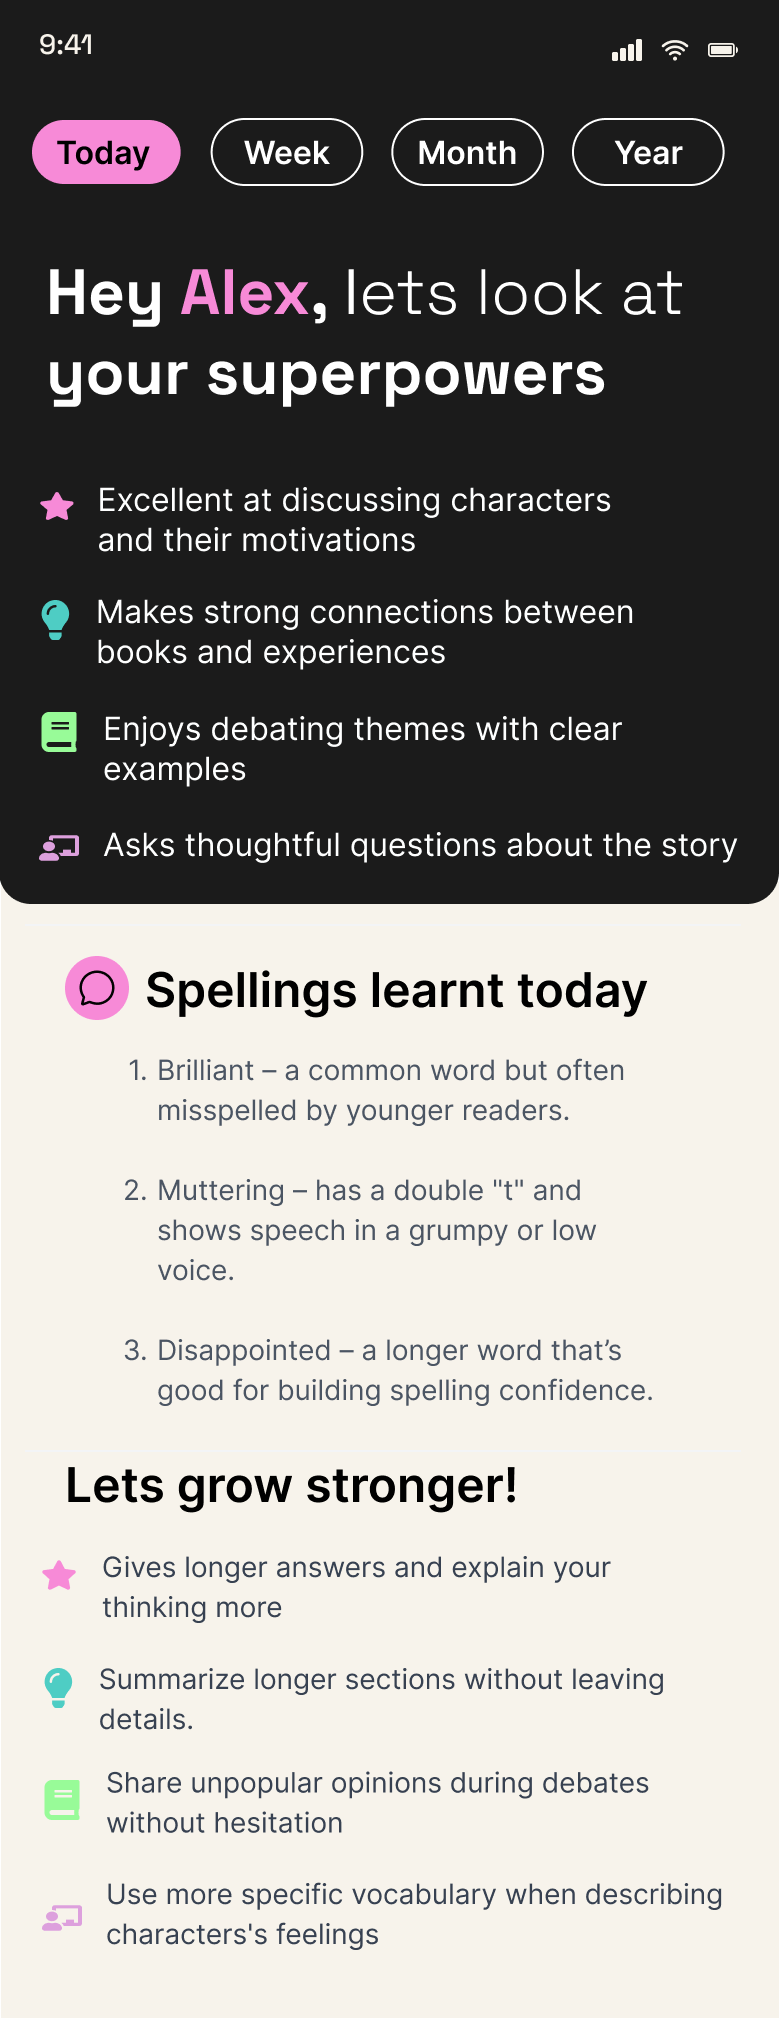
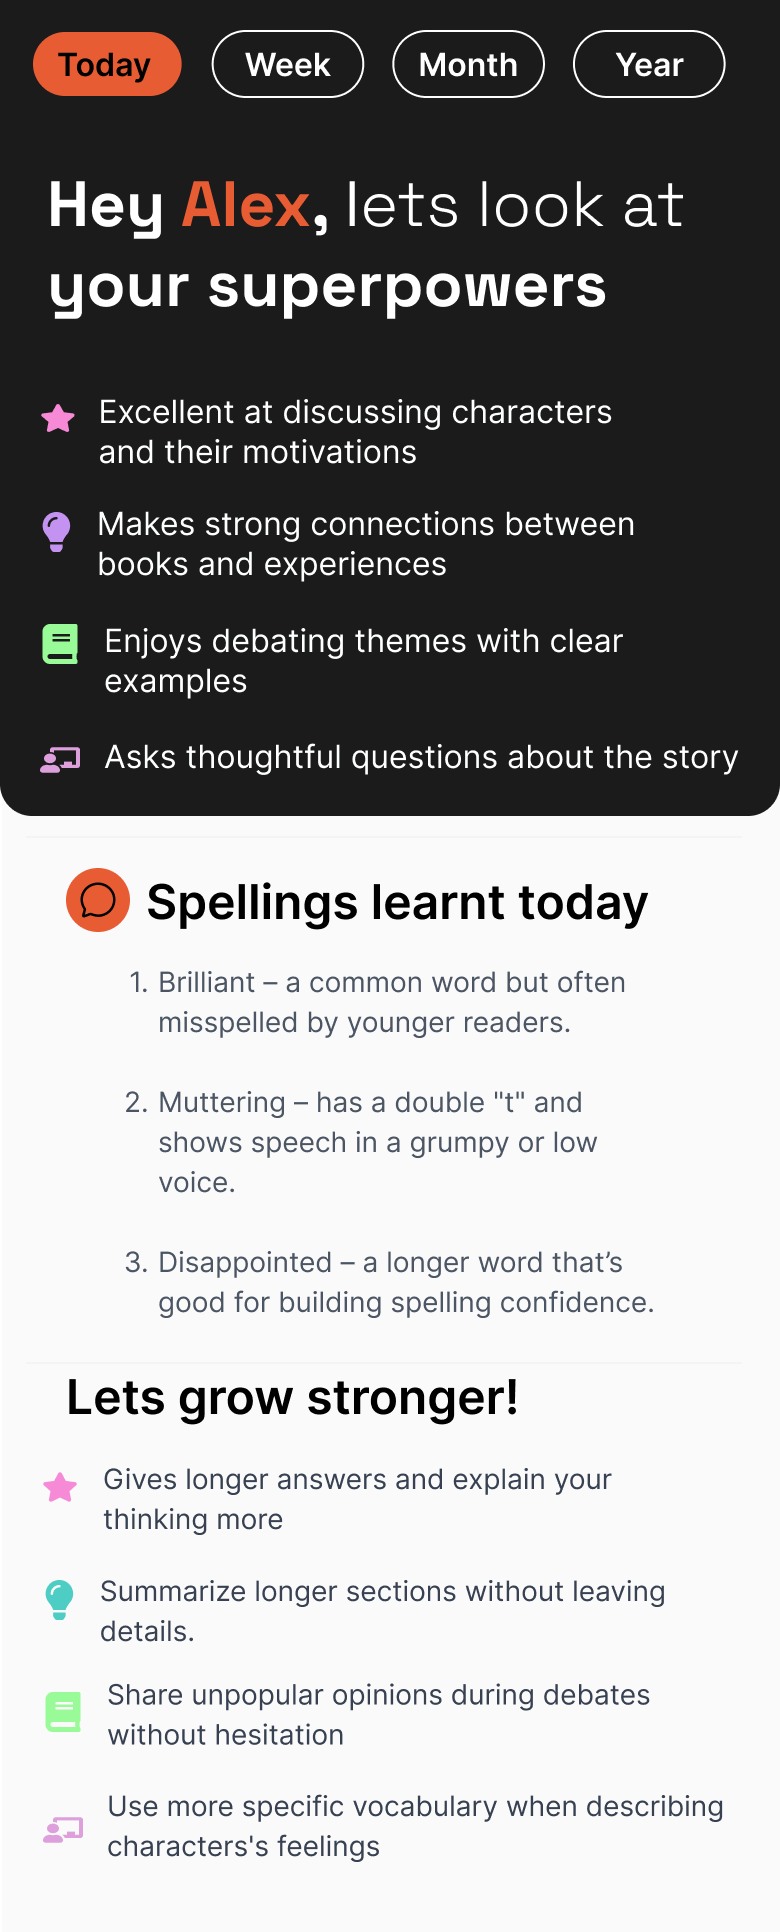
updated progress, fixed scrolling

Changed region(s): [[0.0, 0.0, 1.0, 0.9627], [0.7702, 0.0, 0.9551, 0.1553]]

diff --git a/src/components/sections/ProfileSection.jsx b/src/components/sections/ProfileSection.jsx
@@ -1,15 +1,31 @@
-import React from "react";
+import React, { useState } from "react";
 import progressImg from "../../assets/img/progress.png";
+import progressWeekImg from "../../assets/img/progress-week.png";
 
 const ProfileSection = () => {
+  const [showWeeklyProgress, setShowWeeklyProgress] = useState(false);
+
+  const toggleProgress = () => {
+    setShowWeeklyProgress(!showWeeklyProgress);
+  };
+
   return (
-    <div className="w-full h-full">
-      <img
-        src={progressImg}
-        alt="Your Progress"
-        className="w-full h-auto m-0 p-0 rounded-none"
-        style={{ display: "block" }}
-      />
+    <div className="w-full h-full cursor-pointer" onClick={toggleProgress}>
+      {showWeeklyProgress ? (
+        <img
+          src={progressWeekImg}
+          alt="Your Weekly Progress"
+          className="w-full h-auto m-0 p-0 rounded-none"
+          style={{ display: "block" }}
+        />
+      ) : (
+        <img
+          src={progressImg}
+          alt="Your Progress"
+          className="w-full h-auto m-0 p-0 rounded-none"
+          style={{ display: "block" }}
+        />
+      )}
     </div>
   );
 };

diff --git a/src/components/sections/CurrentBookSection.tsx b/src/components/sections/CurrentBookSection.tsx
@@ -25,7 +25,7 @@ const CurrentBookSection: React.FC<CurrentBookSectionProps> = ({
         <div key={book.id}>
           {" "}
           {/* Fixed width and no shrinking for carousel item */}
-          <div className="px-4 py-4 border-none rounded-xl bg-[#F7F7F7] h-full flex flex-col">
+          <div className="px-4 py-4 border-none rounded-xl bg-[#eeeeee] h-full flex flex-col">
             {" "}
             {/* Added h-full and flex-col for internal layout */}
             <div className="flex items-stretch gap-4">

diff --git a/src/components/features/BookCard.tsx b/src/components/features/BookCard.tsx
@@ -14,7 +14,7 @@ const BookCard: React.FC<BookCardProps> = ({
   progress,
   onAction,
 }) => (
-  <div className="bg-[#F7F7F7] rounded-xl p-4 flex flex-col items-center w-full border border-none">
+  <div className="bg-[#eeeeee] rounded-xl p-4 flex flex-col items-center w-full border border-none">
     <div className="w-full flex justify-center mb-2">
       <div className="w-24 aspect-[2/3] bg-gray-200 rounded flex items-center justify-center overflow-hidden">
         {thumbnailUrl ? (

diff --git a/src/components/layout/Layout.jsx b/src/components/layout/Layout.jsx
@@ -4,7 +4,7 @@ import React from "react";
 const Layout = ({ children, mainRef }) => {
   return (
     <div className="flex flex-col flex-1 h-full min-h-0">
-      <main ref={mainRef} className="flex-1 min-h-0">
+      <main ref={mainRef} className="flex-1 min-h-0 overflow-y-auto">
         {children}
       </main>
     </div>

diff --git a/src/styles/globals.css b/src/styles/globals.css
@@ -245,7 +245,7 @@ h2 {
     max-height: 100vh;
     margin: 0 auto;
     border-radius: 24px;
-    background: #f7f3eb;
+    background: #fff;
     overflow: hidden;
     position: relative;
     display: flex;
